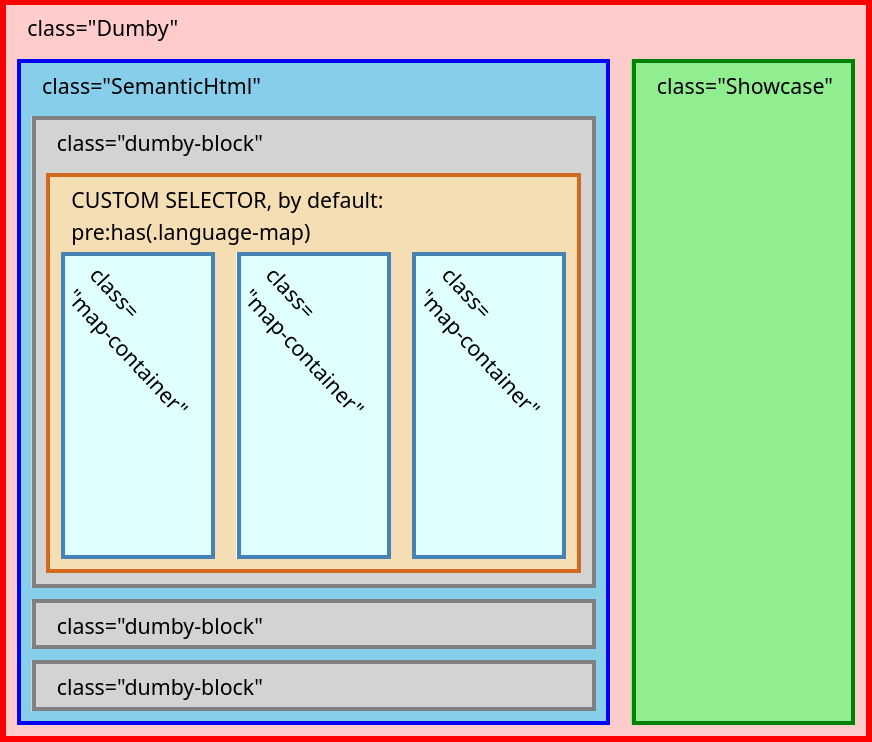
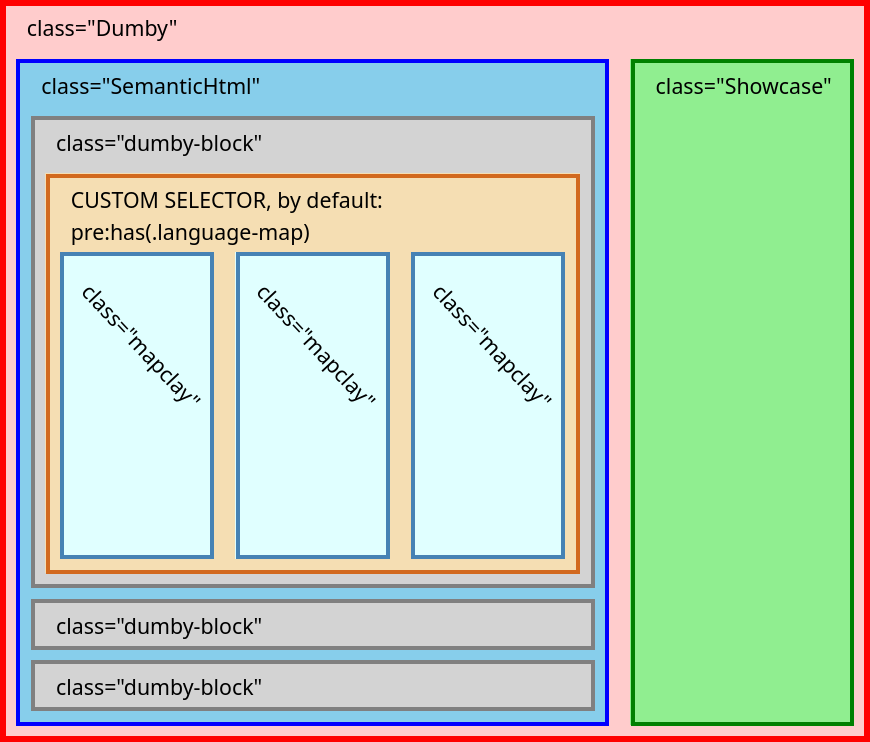
docs: update example of custom layouts

diff --git a/src/css/dumbymap.css b/src/css/dumbymap.css
@@ -783,14 +783,15 @@ a[href^='http']:not(:has(img))::after,
 }
 
 .Dumby[data-layout='sticky'] {
+  max-width: 80em;
   .Showcase {
     display: block;
     width: 20vw;
     height: 40vh;
 
     position: absolute;
-    right: 0;
-    bottom: 0;
+    right: 20px;
+    bottom: 20px;
 
     background: red;
   }

diff --git a/README.md b/README.md
@@ -2,6 +2,9 @@
 
 This library generate web maps from Semantic HTML, play around with [demo page](https://outdoorsafetylab.github.io/dumbymap/)
 
+> [!CAUTION]
+> API of DumbyMap is not stable now, use it carefully
+
 ## Getting Started
 
 Node.js:
@@ -20,11 +23,12 @@ document.body.append(container)
 markdown2HTML(container, '# Heading\n\n```map\nid: foo\nuse: Maplibre\n```\n')
 
 // Gernerate maps from code block
-const dumbymap = generateMaps(container)
+const dumbymap = generateMaps(container, options ?? {})
 ```
 
 Browser (CDN):
 - unpkg: https://unpkg.com/dumbymap@latest/dist/dumbymap.mjs
+
 
 ## Semantic HTML
 
@@ -34,7 +38,7 @@ Dumbymap adds several features by Semantic HTML:
 
 Generated from Element fits CSS Selector `:has(.language-map)`
 
-It generates maps by `textContent` in YAML format, done by [`mapclay`](/outdoorsafetylab/mapclay).
+It generates maps by `textContent` in YAML format, done by [mapclay]
 
 For example:
 ~~~markdown
@@ -122,6 +126,13 @@ After `generateMaps()`, the container has the following structure:
 
 ![structure](./assets/structure_1.jpg)
 
+For each element:
+* `class="Dumby"`: Container of DumbyMap Contents. It uses attribute `data-layout` to switch layout
+* `class="SemanticHtml"`: Container of Semantic HTML
+* `class="Showcase"`: Container of map with `class="focus"`. Some layouts use it to display focused map
+* `class="dumby-block"`: Block contains part of contents of Semantic HTML.
+* `class="mapclay"`: Map generated by [mapclay]
+
 ## Layouts
 
 Dumbymap switch layouts by attribute `data-layout` of container. Most of the features are done by pure CSS.
@@ -130,13 +141,15 @@ You can add custom layout by options `layouts`. For example, the following code 
 
 ```css
 .Dumby[data-layout='sticky'] {
+  max-width: 80em;
+
   .Showcase {
     display: block;
     width: 20vw;
     height: 40vh;
     position: absolute;
-    right: 0;
-    bottom: 0;
+    right: 20px;
+    bottom: 20px;
     background: red;
   }
 }
@@ -146,13 +159,19 @@ You can add custom layout by options `layouts`. For example, the following code 
 generateMaps(container, { layouts: "sticky" })
 ```
 
+<details><summary>Result:</summary>
+
+![](./assets/layout-example1.png)
+
+</details>
+
 
 ## Dependencies
 
 - [leader-line](https://anseki.github.io/leader-line/)
 - [plain-draggable](https://anseki.github.io/plain-draggable/)
 - [markdown-it](https://github.com/markdown-it/markdown-it/)
-- [mapclay](https://github.com/outdoorsafetylab/mapclay)
+- [mapclay]
 - [EasyMDE](https://github.com/Ionaru/easy-markdown-editor)
 
 
@@ -168,3 +187,5 @@ generateMaps(container, { layouts: "sticky" })
 * [obsidian-map-view](https://github.com/esm7/obsidian-map-view)
 * [odyssey.js](http://cartodb.github.io/odyssey.js/)
 * [StoryMapJS](https://storymap.knightlab.com/)
+
+[mapclay]: https://github.com/outdoorsafetylab/mapclay
